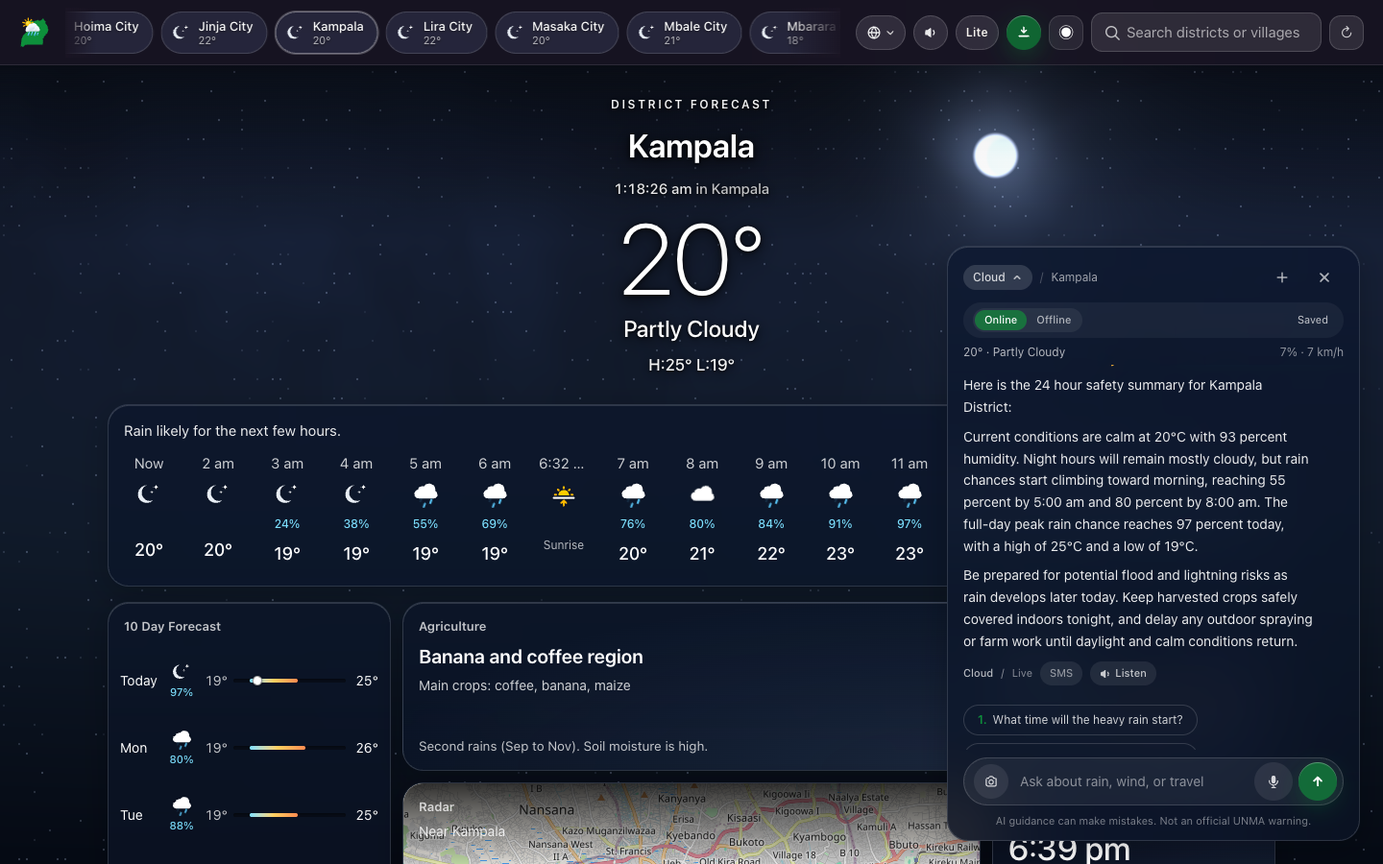
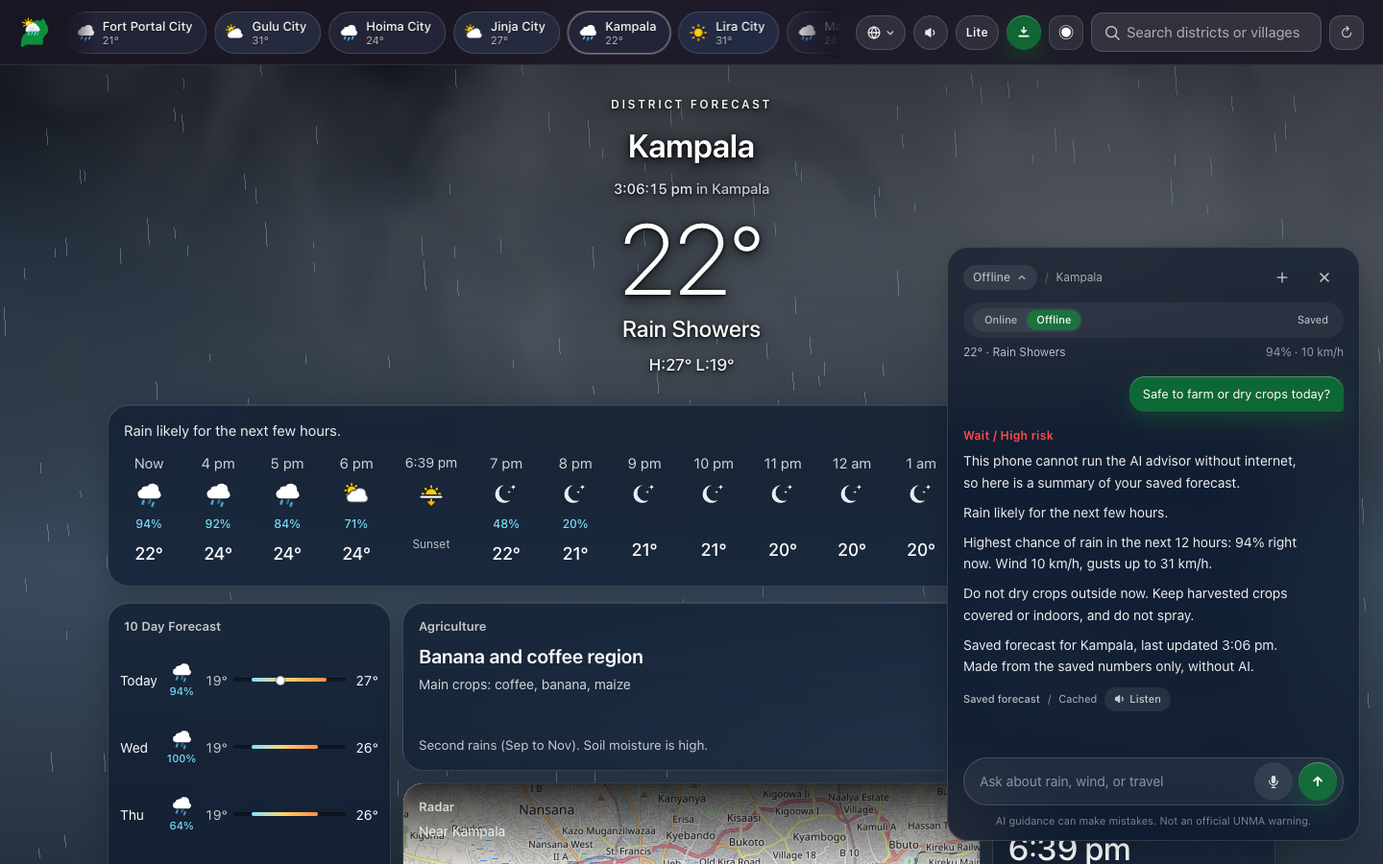
Update docs, API contract, screenshots, and publish the env template
- README: sourced statistics (disability figure corrected to the UBOS 2024
  value), offline answers on every phone, provider order, SMS on phones,
  Web (Chrome) scope, new screenshots, and current test counts.
- CHANGELOG: Security, Added, Changed, and Fixed entries for this work.
- openapi.yaml: per route rate limits, the 429 response, and the 403 note
  for internal POST routes.
- .env.example is now tracked (the setup steps copy it); it holds
  placeholders only. Local tool output folders are ignored.

diff --git a/README.md b/README.md
@@ -28,23 +28,23 @@ This repository is the standalone Hybrid AI edition live at [hybrid.uganda-weath
 
 In Uganda, weather decides whether a family eats, earns a living, or gets home safely.
 
-- **Farming families:** World Bank, FAO, and Uganda Bureau of Statistics (UBOS) data show that about 70% of Uganda's workforce depends on rain-fed farming, and only about 1.3% of farmland has irrigation. Most small farmers dry their maize, beans, and coffee outside in the sun. When sudden rain or heavy dampness hits drying crops, families often lose 5% to 13% of their grain and 12% to 18% of their beans and oilseeds.
-- **Fishers on Uganda's lakes:** On Lake Victoria, sudden night storms and strong winds catch wooden fishing boats far from shore. For years, 3,000 to 5,000 fishers died on the lake each year. When the World Meteorological Organization (WMO) ran its HIGHWAY project and gave lakeside communities simple local warnings, storm deaths dropped by about 30%.
+- **Farming families:** About 68% to 70% of Uganda's working population is in farming ([US Commerce guide citing UBOS](https://www.trade.gov/country-commercial-guides/uganda-agricultural-sector)), and less than 1% of cultivated land is equipped for irrigation ([FAO](https://www.fao.org/fileadmin/user_upload/agwa/docs/NIP-Uganda-Final.pdf)), so almost every harvest depends on the rain. Most small farmers dry maize, beans, and coffee outside in the sun, where a sudden shower can spoil a season's work.
+- **Fishers on Uganda's lakes:** Sudden storms on Lake Victoria catch small wooden boats far from shore. The International Red Cross estimates 3,000 to 5,000 fishers die in storms on the lake each year ([NASA](https://climate.nasa.gov/news/2500/lake-victoria-hazardous-thunderstorm-study-could-improve-climate-forecasts-around-us)); other studies give lower numbers. When the World Meteorological Organization's HIGHWAY project gave lakeside communities simple local warnings, studies estimated weather deaths on the lake fell by about 30%, more than 300 lives a year ([WMO](https://wmo.int/node/13801)).
 - **Mountain and dryland communities:** Around Mount Elgon (Bududa, Manafwa, Sironko, Bulambuli) and the Rwenzori slopes (Kasese, Bundibugyo), Makerere University studies show that heavy rain over a few days soaks steep hillsides and triggers deadly landslides. In Karamoja and the northern drylands, long hot dry spells put cattle, goats, and water points under severe stress.
-- **Literacy, disability, and sun safety:** The **UBOS 2024 National Census** counted **45.9 million** Ugandans (51.4% female, 48.6% male). About **26% of people aged 10 and older cannot read or write**, and **13.2%** (about **5.5 million people** aged 2 and older) live with a disability, including sight loss, hearing loss, and albinism (where strong equatorial UV rays cause severe sunburn and high skin cancer risk).
-- **Phones, data cost, and patchy signal:** Uganda Communications Commission (UCC) reports show about **18 to 19 million smartphones** (roughly 40% of phones), while **basic and feature phones ("kabiriti") still make up over half of all handsets**. **1 GB of mobile data costs around UGX 4,000 to UGX 5,000**, and rural signal drops often. Many people check their phone in town, then lose signal when they reach their garden, landing site, or mountain road.
+- **Literacy, disability, and sun safety:** The 2024 national census counted 45.9 million Ugandans. 74% of people aged 10 and older can read and write, so about one in four cannot, falling to 25% literacy in Karamoja ([UBOS census final report](https://statistics.ubos.org/nphc/reports/National-Population-and-Housing-Census-2024-Final-Report-Volume-1-Main.pdf)). The same report puts disability at 5.7%, a figure disability groups and the government have publicly questioned. People with sight loss, hearing loss, and albinism (where strong equatorial sun causes severe sunburn) need weather information they can hear or see at a glance.
+- **Phones and patchy signal:** Uganda Communications Commission figures for the third quarter of 2025 show feature phones are about 56% of devices, basic phones about 10%, and smartphones only about 34% ([PC Tech Magazine on the UCC report](https://pctechmag.com/2025/12/ucc-report-ugandas-digital-footprint-grows-modestly-in-q3-2025/)). Mobile data is a real cost for families and rural signal drops often: many people check their phone in town, then lose signal at the garden, landing site, or mountain road.
 
 A cloud only app stops helping the moment mobile signal drops, and a text only app leaves out people who cannot read or afford big data bundles. I built **Uganda Weather (Hybrid AI Edition)** to solve all of these real constraints together:
 
-- **Works online and offline:** Load your district forecast once while you have signal, save it on the phone, and ask practical safety questions offline in plain English using on-device Gemini Nano (`0 KB` cloud data), or get live cloud answers in English and Luganda when online.
-- **Built for eyes, ears, and basic phones:** One-tap natural voice briefings in English and Luganda for blind and non-reading users, clear visual Go / Caution / Wait cards for deaf and hard-of-hearing users, `Large text` and `High contrast` display switches, a fast low-data `/lite` mode tested on `240x320` KaiOS feature phones and `320x568` Android Go devices, and one-tap **SMS** and **WhatsApp** plain-text sharing so one smartphone owner can forward the full forecast or safety verdict to family and neighbours on 2G button phones for free.
+- **Works online and offline, on any phone:** Load your district forecast once while you have signal and it is saved on the phone. Offline, every phone gets a plain safety summary built only from the saved forecast numbers (clearly labelled, no AI and no guessing). Devices that have Gemini Nano get full AI answers offline in English. Online, answers come from Gemini in the cloud in English and Luganda.
+- **Built for eyes, ears, and basic phones:** One tap natural voice briefings in English and Luganda for blind and non reading users, clear Go / Caution / Wait labels for deaf and hard of hearing users, `Large text` and `High contrast` switches, a low data `/lite` page checked in automated tests at `240x320` and `320x568` screen sizes, and one tap **SMS** (on phones) and **WhatsApp** plain text sharing so one smartphone owner can forward the forecast to family and neighbours on basic phones.
 
 ## Screenshots
 
 | Online / Offline Switch & Saved Forecast | Bilingual Luganda Guidance | Feature Phone Lite Mode & SMS Share |
 | :---: | :---: | :---: |
-| ![Online and Offline switch with Saved forecast indicator](public/screenshots/hybrid-advisor-offline-toggle.png) | ![Luganda weather view and live Luganda safety reply](public/screenshots/hybrid-advisor-luganda.png) | ![Low data Lite mode with voice reader, SMS sharing, and display controls](public/screenshots/lite-feature-phone.png) |
-| Tap the top left status pill (`Cloud` or `On device`) to switch directly between `Online` and `Offline` mode and confirm your local forecast is saved. | Works naturally in both English and Luganda, including switching languages in the middle of a conversation. | Fast low data `/lite` mode built for basic and feature phones, with one tap voice reading, plain text SMS and WhatsApp sharing, and large text controls. |
+| ![Advisor switched to Offline answering from the saved forecast with a Wait verdict](public/screenshots/hybrid-advisor-offline-toggle.png) | ![Luganda weather view and live Luganda safety reply](public/screenshots/hybrid-advisor-luganda.png) | ![Low data Lite mode with voice reader, SMS sharing, and display controls](public/screenshots/lite-feature-phone.png) |
+| Switch to `Offline` from the status pill. With no internet and no on device model, the advisor still answers from the saved forecast, clearly labelled `Saved forecast`. | Works naturally in both English and Luganda, including switching languages in the middle of a conversation. | Fast low data `/lite` mode built for basic and feature phones, with one tap voice reading, plain text SMS and WhatsApp sharing, and large text controls. |
 
 ## How Hybrid AI works
 
@@ -53,12 +53,15 @@ The advisor uses **Firebase AI Logic**, **Firebase Remote Config**, and **Fireba
 ```mermaid
 flowchart LR
   User["Question by Text, Voice, or Photo"] --> Clean["Privacy Check (Removes Phone Numbers and Photo GPS)"]
-  Weather["Live or Saved Uganda Weather"] --> Clean
+  Weather["Live or Saved Uganda Weather (Open-Meteo, WeatherAPI backup)"] --> Clean
   Clean --> Router{"Internet Available?"}
-  Router -->|"Offline"| PhoneOnly["Runs on Device (0 KB Data)"]
+  Router -->|"Offline"| HasNano{"Gemini Nano on this device?"}
+  HasNano -->|"Yes"| PhoneOnly["Runs on Device (0 KB Data)"]
+  HasNano -->|"No"| Saved["Safety Summary from Saved Forecast (No AI)"]
+  Saved --> Reply
   Router -->|"Online"| PhoneFirst["Tries Device First (Saves Data)"]
   PhoneFirst -->|"Fallback, Photos, or Luganda"| Cloud["Cloud Gemini (via Firebase)"]
-  PhoneOnly --> Reply["Safety Advice, Voice Reader, and SMS Share"]
+  PhoneOnly --> Reply["Safety Advice, Voice Reader, and SMS or WhatsApp Share"]
   PhoneFirst --> Reply
   Cloud --> Reply
 ```
@@ -89,8 +92,8 @@ Before sending a question to the model, `src/lib/ai/advisor-prompt.ts`, `src/lib
 
 - **Privacy built in:** Everyday English questions for one district run on your phone first (using Gemini Nano) so your plans stay private and use `0 KB` of mobile data. Before any question goes to the cloud, the app automatically removes phone numbers, emails, and ID numbers, and strips hidden GPS location data from sky or crop photos on your phone.
 - **Server side prompt templates:** Supports running cloud answers from Firebase Console Server Prompt Templates (`getTemplateGenerativeModel` and `advisor_prompt_template_id` in Remote Config), keeping prompt rules safely on Firebase servers.
-- **Natural voice reader in English and Luganda:** Reads weather briefings and answers aloud in clear English (via Firebase AI Logic audio) and natural Luganda (via Sunbird AI), splitting long text into short sentences and pre loading the start so speech begins fast, with browser speech as the offline backup.
-- **Built for everyone and basic phones:** Low data `/lite` mode tested on `240x320` KaiOS feature phones and `320x568` Android Go phones, `Large text` and `High contrast` display switches, one tap plain text `SMS` and `WhatsApp` forecast sharing for neighbours on 2G basic phones, offline parish and town search caching, and community safety warnings (High UV sun protection including persons with albinism, Karamoja livestock heat and water watch, and 72 hour mountain slope landslide watch).
+- **Natural voice reader in English and Luganda:** Reads weather briefings and answers aloud in clear English (Gemini voice through Firebase AI Logic, with a server voice as backup) and natural Luganda (Sunbird AI). Speech is fetched only when you tap Listen, never on page load, so no data or quota is spent unless you ask. The browser's own voice, preferring its most natural voices, is the last backup.
+- **Built for everyone and basic phones:** Low data `/lite` page checked in automated tests at `240x320` and `320x568` screen sizes, `Large text` and `High contrast` switches, one tap plain text `SMS` (on phones) and `WhatsApp` forecast sharing for neighbours on basic phones, offline parish and town search caching, and community safety warnings (High UV sun protection including persons with albinism, Karamoja livestock heat and water watch, and 72 hour mountain slope landslide watch).
 - **Exact place type and Uganda local time (EAT):** Tells National Parks, Mountains, Airports, Villages, Cities, and Districts apart, and follows Uganda local time so it never tells farmers to dry crops at night.
 - **Live controls and abuse protection:** Firebase Remote Config (`src/lib/ai/remote-config.ts`, `remoteconfig.template.json`) lets us update models, voice settings, prompt templates, or pause the advisor live without redeploying. Firebase App Check (`ReCaptchaEnterpriseProvider`) and input checks block spam and misuse.
 
@@ -103,14 +106,17 @@ That existing app is what makes the Hybrid AI Advisor useful: instead of a chatb
 During the submission period (November 11 to November 30, 2026), I built:
 
 - **The Hybrid AI Advisor and Firebase setup:** Live streaming answers with a stop button, automatic privacy protection (removes phone numbers, emails, ID numbers, and hidden photo GPS before cloud requests), Firebase Remote Config live controls, Firebase App Check bot protection, server side prompt templates, and built in English neural voice (`src/lib/ai/`).
-- **Hands free Voice Reader, Live Camera, and Feature Phone Lite Mode:** Tap once to listen to any screen or detail card in clear English or natural Luganda, talk hands free (say `one`, `two`, `emu`, `bbiri`, `stop`, or `lekera awo`, and interrupt cleanly by speaking), take a live sky or crop photo or upload from gallery (checking that the photo is recent and from Uganda), and use the fast, low data `/lite` page built for `240x320` KaiOS feature phones and `320x568` Android Go phones.
-- **Everyday inclusion, safety, and polish:** Cleaner cards and readable text over bright skies, `Large text` and `High contrast` switches that do not resize cards, one tap `SMS` and `WhatsApp` plain text forecast sharing for neighbours on 2G basic phones, offline search across all 152 districts plus cached parishes and major Ugandan towns, community safety warnings (High UV sun protection including persons with albinism, Karamoja livestock heat and water watch, and 72 hour mountain slope landslide watch), and 596 automated unit tests across 108 files plus 9 feature phone and mobile tests.
+- **Hands free Voice Reader, Live Camera, and Feature Phone Lite Mode:** Tap once to listen to any screen or detail card in clear English or natural Luganda, talk hands free (say `one`, `two`, `emu`, `bbiri`, `stop`, or `lekera awo`, and interrupt cleanly by speaking), take a live sky or crop photo or upload from gallery (checking that the photo is recent and from Uganda), and use the low data `/lite` page, checked in automated tests at `240x320` and `320x568` screen sizes.
+- **Offline answers for every phone, voice reliability, and security:** When there is no internet and no on-device model, the advisor now answers from the saved forecast instead of showing an error (`src/lib/ai/offline-briefing.ts`). Natural voice is only fetched when you tap Listen and has a server backup before the browser voice. Paid voice routes refuse requests from other websites, and server secrets are compared in constant time. Text messages use only basic SMS characters so a forecast fits one paid SMS, the SMS button shows only on phones and tablets, every layout was checked from `240x320` feature phone screens to desktop, and request limits are counted per route so many people sharing one mobile network address are not blocked together.
+- **Everyday inclusion, safety, and polish:** Cleaner cards and readable text over bright skies, `Large text` and `High contrast` switches that do not resize cards, one tap `SMS` and `WhatsApp` plain text forecast sharing for neighbours on 2G basic phones, offline search across all 152 districts plus cached parishes and major Ugandan towns, community safety warnings (High UV sun protection including persons with albinism, Karamoja livestock heat and water watch, and 72 hour mountain slope landslide watch), and 645 automated unit tests across 116 files plus 23 browser tests (including feature phone and small phone screen sizes).
 
 ## Testing On-Device Mode in Chrome
 
 1. Open Chrome on a desktop machine with at least 22 GB of free disk space and enable `chrome://flags/#prompt-api-for-gemini-nano` (restart Chrome if prompted).
 2. Visit `chrome://on-device-internals` to verify Gemini Nano is downloaded and ready.
 3. Open [https://hybrid.uganda-weather.com](https://hybrid.uganda-weather.com) (or `http://localhost:3000`), open the green chat button, tap the status pill (`Cloud` or `On device`), and switch to **`Offline`** (or turn on Offline in Chrome DevTools) to run `InferenceMode.ONLY_ON_DEVICE` against your locally saved district forecast.
+
+Without Gemini Nano (any phone, or Chrome without the flag), switching to **`Offline`** still works: the advisor answers with a safety summary built from the saved forecast, labelled `Saved forecast`. This is what most people in rural Uganda will see on entry level Android phones.
 
 ## Running locally
 
@@ -125,7 +131,8 @@ Add your Firebase Web keys to `.env.local`:
 - `NEXT_PUBLIC_FIREBASE_PROJECT_ID`
 - `NEXT_PUBLIC_FIREBASE_APP_ID`
 - Optional: `NEXT_PUBLIC_FIREBASE_RECAPTCHA_ENTERPRISE_SITE_KEY` or `NEXT_PUBLIC_FIREBASE_APPCHECK_DEBUG_TOKEN=true` for App Check, and `NEXT_PUBLIC_FIREBASE_AI_MODEL` for the default cloud model.
-- Optional: `WEATHERAPI_KEY` for primary weather data (without it, the app uses Open-Meteo, which needs no key).
+- Optional: `WEATHERAPI_KEY` for WeatherAPI.com forecasts. Without it the app uses Open-Meteo, which needs no key.
+- Optional: `WEATHER_PRIMARY_PROVIDER=open-meteo` to ask Open-Meteo first and keep WeatherAPI as the backup (the live hybrid site uses this). The default asks WeatherAPI first.
 
 Start the app:
 
@@ -146,8 +153,8 @@ pnpm lint && pnpm typecheck && pnpm test && pnpm build && pnpm guards
 - **Frontend:** Next.js 15, React 19, TypeScript, Tailwind CSS 4, TanStack Query, Zustand, Framer Motion
 - **Hybrid AI:** Firebase AI Logic (`firebase/ai`), Firebase Remote Config (`firebase/remote-config`), Firebase App Check (`firebase/app-check`)
 - **Backend and caching:** Next.js API routes with Upstash Redis (in memory fallback in development)
-- **Weather and place data:** WeatherAPI.com, Open-Meteo, Pirate Weather, OpenWeatherMap (air quality), Visual Crossing (historical averages), NOAA Aviation Weather Center (airport METAR), OpenData Uganda v1 (villages and towns), RainViewer (radar), MapTiler and Stadia Maps
-- **Mobile shells:** Capacitor 7 for Android and iOS with six home screen widgets
+- **Weather and place data:** Open-Meteo and WeatherAPI.com (either can be first, the other is the backup), Pirate Weather (third backup), OpenWeatherMap (air quality), Visual Crossing (historical averages), NOAA Aviation Weather Center (airport METAR), OpenData Uganda v1 (villages and towns), RainViewer (radar), MapTiler and Stadia Maps
+- **Mobile shells:** Capacitor 7 for Android and iOS with six home screen widgets. The shells load the hosted web app, so the Hybrid AI Advisor described here is the web (Chrome) build.
 - **API contract:** [`openapi.yaml`](./openapi.yaml)
 
 ## Native mobile builds

diff --git a/CHANGELOG.md b/CHANGELOG.md
@@ -6,17 +6,28 @@ The format follows [Keep a Changelog](https://keepachangelog.com/en/1.1.0/), and
 
 ## [Unreleased]
 
-### Fixed
+### Security
 
-- Mobile Voice Reader playback reliability on iOS and Android browsers (`src/lib/ai/advisor-voice.ts`, `src/components/settings/WeatherListenButton.tsx`, `src/components/settings/LiteListenButton.tsx`): primed the shared inline audio element unmuted inside the user tap gesture, removed src teardown between chunks, retained and chunked mobile browser speech utterances without idle cancel races, and prevented background header instances from cancelling active playback on capability hydration.
+- Paid voice routes and data writing routes (`/api/v1/voice/speak`, `/voice/translate`, `/voice/transcribe`, `/feedback/luganda`, `/observability/advisor-error`, `/push/register`) refuse requests that the browser marks as coming from another website (`rejectCrossSiteRequest` in `src/lib/api/route-utils.ts`), so other sites cannot spend this app's voice and AI quota.
+- The speak route only sends English to the Luganda voice service when `VOICE_ENGLISH_CLOUD_ENABLED=true`, closing a path that let anyone use that paid key for English.
+- Cron and push dispatch secrets are compared in constant time (`src/lib/api/bearer-secret.ts`).
+- National ID redaction before cloud calls now also catches lowercase ID numbers.
+- Android widget data now arrives through the `WidgetData` Capacitor plugin, which Capacitor only accepts from the main page of the app's allowed sites. The old `WidgetBridge` JavaScript interface, which also accepted calls from embedded frames, is removed from the app. The website still calls it as a fallback for app builds already installed on phones.
+- Added a CodeQL workflow that scans the web app and the Android source on pushes, pull requests, and weekly.
+- Added automatic dependency updates (`.github/dependabot.yml`) for the web packages (daily), Android build tooling, and workflow actions (weekly), all aimed at `dev`.
 
 ### Added
 
+- Offline answers on every phone: when there is no internet and no on-device model, or Luganda is asked offline, the Weather Advisor answers with a safety summary built only from the saved forecast, clearly labelled `Saved forecast` / `Obudde obuterekeddwa` (`src/lib/ai/offline-briefing.ts`).
+- `WEATHER_PRIMARY_PROVIDER` setting (`weatherapi` by default, or `open-meteo`) to choose which forecast provider is asked first; the other becomes the backup, then Pirate Weather (`src/lib/weather/provider.ts`).
+- `API_RATE_LIMIT_PER_MINUTE` setting for the per route, per address request limit.
+- The floating advisor button steps aside while people scroll down to read and returns when they scroll up (`src/hooks/useHideOnScrollDown.ts`).
+- Browser tests for SMS sharing on phones and computers (`e2e/share-sms.spec.ts`) and unit tests for the offline summary, voice routing, rate limits, scene capability, and the speak route.
 - Accessibility display controls (`AccessibilityControls.tsx` in `src/components/settings/`) adding persistent `Large text` and `High contrast` toggles across the home settings tile, search page, and `/lite` without resizing cards or shifting brand colours.
 - Community safety advisories (`src/lib/weather/community-safety.ts`) derived from existing forecast data: daytime High UV sun protection (covering outdoor workers, children, and persons with albinism), Karamoja and cattle corridor pastoralist livestock heat and water watch, and a 72 hour mountain slope landslide watch across mountain and landslide hazard districts.
 - Plain text SMS and WhatsApp forecast sharing (`src/lib/places/sms-share.ts` and `src/components/settings/VillageShareBar.tsx`) on `/lite` and completed Advisor replies so smartphone and feature phone users can forward daily forecasts and safety verdicts to neighbours on 2G basic phones with zero paid messaging APIs.
 - Offline parish and village search cache plus a bundled directory of major Ugandan towns and trading centres (`src/lib/places/offline-place-cache.ts`) wired into both top bar and search page autocomplete.
-- Pipelined sentence chunked neural voice playback with eager background pre warming (`src/lib/voice/narrator.ts`, `src/lib/ai/advisor-voice.ts`, `src/lib/voice/sunbird.ts`) reducing spoken playback startup latency while preventing overlapping voices and enforcing standard Luganda orthography (`Empandiika y'Oluganda Entongole`).
+- Pipelined sentence chunked neural voice playback (`src/lib/voice/narrator.ts`, `src/lib/ai/advisor-voice.ts`, `src/lib/voice/sunbird.ts`) reducing spoken playback startup latency while preventing overlapping voices and enforcing standard Luganda orthography (`Empandiika y'Oluganda Entongole`).
 - Privacy Shield for the Hybrid Weather Advisor (`redactPiiForCloud` in `src/lib/ai/advisor-guard.ts` and verified canvas EXIF APP1 stripping in `src/lib/ai/advisor-image.ts`) that redacts accidental phone numbers, emails, and national IDs before cloud calls and strips GPS/camera metadata from photos on device.
 - Native client side Firebase AI Logic Neural TTS (`src/lib/ai/firebase-tts.ts` using `gemini-3.1-flash-tts-preview` and `ResponseModality.AUDIO`), Firebase AI Logic Server Prompt Templates (`src/lib/ai/template-advisor.ts` via `getTemplateGenerativeModel`), and native `Schema.object` structured output definitions (`ADVISOR_STRUCTURED_OUTPUT_SCHEMA` in `src/lib/ai/advisor-tools.ts`), all dynamically controlled through Firebase Remote Config (`remoteconfig.template.json`).
 - Hands free Voice Companion Mode (`voiceMode` in `src/stores/preferencesStore.ts`) and Universal Page and Sheet Narrator (`src/lib/voice/narrator.ts`) delivering natural spoken briefings in English and standard Luganda across the home screen, Lite mode (`src/components/settings/LiteListenButton.tsx`), all detail sheets (`src/components/sheet/DetailSheet.tsx`), and automatic spoken replies in the Weather Safety Advisor.
@@ -30,7 +41,6 @@ The format follows [Keep a Changelog](https://keepachangelog.com/en/1.1.0/), and
 - Custom glass 404 Not Found page (`src/app/not-found.tsx` and `src/components/layout/NotFoundView.tsx`) localized in both English and Luganda with live atmospheric weather backdrop, brand mark, direct home and search actions, and quick links to major Ugandan cities and districts.
 - Luganda beta notice banner and modern glass issue reporting form (`POST /api/v1/feedback/luganda`) allowing users in Luganda mode to report translation, grammar, or layout issues directly to the language review inbox without exposing internal email addresses in client code.
 - Comprehensive Luganda language support with reactive English to Luganda switching across desktop and mobile interfaces, dark mode glass switcher control, centralized typed translation dictionary, and authentic meteorological phrasing calibrated against standard Luganda orthography (Empandiika y Oluganda Entongole).
-
 - Dedicated Android notification channel (`weather_alerts`) for severe weather alerts with high importance, vibration, amber notification tint, and a monochrome status bar storm icon (`ic_stat_weather_alert`).
 - Android home screen widget suite expanded to six native widgets: Forecast, Details, 5 Day Forecast, Air Quality, Agriculture, and Sunrise and Sunset, with dedicated titles, concise subtitles, and dynamic layout previews (`previewLayout`) displaying real glass cards, metrics, and icons in the widget picker.
 - Continuous horizontal marquee ticker for severe weather alerts in the Android Forecast widget with amber badge and smooth scrolling text.
@@ -49,7 +59,6 @@ The format follows [Keep a Changelog](https://keepachangelog.com/en/1.1.0/), and
 - Transparent application icons across web and desktop touch marks ensuring the Uganda silhouette and weather emblem render without artificial dark background tiles in desktop docks and home screens.
 - Home screen widget suite matching modern glanceable layouts across small, medium, and large families with horizontal hourly forecasts, five day outlook range bars, and specialized Agriculture and Air Quality widgets.
 - Card free download action in the application footer with vector icons and solid brand green navigation buttons that automatically reappear if the application is uninstalled.
-
 - Wind compass dial with a fine degree bezel, cardinal letters, a marker pinned to the exact bearing, and a center readout of the degree and compass point. The wind detail sheet shows a large dial with numerals every 30 degrees.
 - The cookie banner no longer appears inside the native mobile apps.
 - The mobile header now respects the top safe area so it never sits under the system status bar.
@@ -81,19 +90,24 @@ The format follows [Keep a Changelog](https://keepachangelog.com/en/1.1.0/), and
 
 ### Changed
 
+- Natural voice order for English: the Firebase AI Logic Gemini voice first, then the server voice, then the browser voice, which now prefers Chrome's more natural "Google" voices. The server speak route tries Gemini before Sunbird for English.
+- Spoken audio is fetched only when someone taps or focuses Listen, never on page load, so no quota or mobile data is spent unless asked.
+- Rate limits now count per route and per address with a default of 240 requests a minute, so many people sharing one mobile network address are not blocked together; expired entries are cleared from memory.
+- Phones with 2 GB of memory get the still weather scene instead of the animation, saving battery on entry level Android phones.
+- SMS sharing is offered only on touch devices; on computers the browser would stop to ask before opening Messages. WhatsApp and Copy stay everywhere.
+- The privacy page explains where advisor questions, photos, and voice recordings go (Google Gemini through Firebase, Sunbird AI, reCAPTCHA) and how long spoken audio is kept.
+- README statistics now link to their sources; the disability figure is corrected to the UBOS 2024 census value.
 - Android now compiles and targets SDK 36 (Android 16), which the store requires for new apps and updates, using Android Gradle Plugin 8.13.0. Android builds need a Java 21 JDK.
 - iOS `Info.plist` declares `ITSAppUsesNonExemptEncryption = NO` and requires `arm64` devices instead of the old `armv7` value.
 - iOS widget names and descriptions use plain wording ("Sunrise and Sunset", "Air Quality", "Current weather, the next few hours, and the next 5 days") and no longer claim features the widgets do not have.
 - New `Native apps` workflow builds the Android app with its unit tests and the iOS app with its widget on every push and pull request.
 - New `pnpm check:native-version` guard, part of `pnpm guards`, fails when the Xcode project version does not match `package.json` or the app and widget build numbers differ.
 - Added the mobile release runbook (`docs/24-mobile-release-runbook.md`) and Java 21 setup notes.
-
 - Unified the weather alert card with standard glass tiles, replacing custom advisory headers with standard Warning, Caution, or Alert titles and removing external API provider declarations.
 - Restructured Android Forecast and Daily Forecast home screen widgets into a balanced two column glass layout with current conditions on the left and a five day forecast with horizontal temperature range bars on the right, eliminating unused vertical space and adhering strictly to the dark glass surface system. Replaced solid amber widget alert badge with frosted dark glass and white text, and eliminated all yellow and gold gradients from range bars and atmospheric backgrounds.
 - Display official brand logo at the top of README and synchronize all developer documentation with the shipped architecture.
 - Removed the text wordmark from desktop top bar and mobile header across apps and website, keeping the clean weather emblem glyph linked to the home view.
 - Redesigned offline fallback screen with full country map background, high contrast weather emblem, and retry button matching the launch visual style.
-
 - Prevented the hourly forecast strip from duplicating the current hour right after Now when crossing an hour boundary or when provider timestamps lag behind wall clock time, aligned Now precipitation probability to the current hour rather than midnight or daily totals, guaranteed sunrise and sunset markers in the hourly strip from astronomy data, and replaced gusts and main driver phrasing with plain everyday English.
 - Added strong downward pull and overscroll dismissal directly inside open detail cards so pulling down firmly within the card body closes it without needing to tap outside or press the close button, fixed WeatherAPI 12 hour sunrise and sunset timestamp parsing so sunrise and sunset markers always appear in the hourly strip, fixed late evening hour graph slicing in the conditions sheet, replaced bimodal and unimodal labels with plain seasonal wording, and removed the pulsing map pin ring.
 - Simplified agriculture and district copy to use natural everyday words (gardens, region, planting time, dry weather, and clear sentence case), removed the redundant shoreline subtitle from lake views, and improved mobile subtitle contrast and phrasing across home tiles.
@@ -125,6 +139,13 @@ The format follows [Keep a Changelog](https://keepachangelog.com/en/1.1.0/), and
 - Added test report output artifacts to lint ignore patterns.
 
 ### Fixed
+
+- SMS messages use only basic SMS characters (`24C`, Luganda `ŋ` written as `ng'`), so one forecast fits one paid SMS; advisor replies are limited to two SMS parts ending on a full sentence, without in app notes. The SMS link format now also fills in the message on iPhone.
+- Small screens: the `/lite` header wraps instead of clipping, the rain, wind, and humidity tiles and the next days list no longer cut words short, share buttons stack and meet the 44 px touch size, the compact home header keeps the place name readable, sunrise and sunset times are no longer cut, and long district names fit in the desktop chip row.
+- The header place pill now reads its place name to screen readers.
+- Removed the footer emoji and third party coffee link; Google Analytics no longer falls back to a hard coded ID.
+- Luganda spelling: "Weereza" on the `/lite` sharing card.
+- Mobile Voice Reader playback reliability on iOS and Android browsers (`src/lib/ai/advisor-voice.ts`, `src/components/settings/WeatherListenButton.tsx`, `src/components/settings/LiteListenButton.tsx`): primed the shared inline audio element unmuted inside the user tap gesture, removed src teardown between chunks, retained and chunked mobile browser speech utterances without idle cancel races, and prevented background header instances from cancelling active playback on capability hydration.
 - Home screen widgets on iOS and Android no longer show made up weather when a reading is missing. Stand in values such as wind "6 km/h", humidity "65%", UV "3 Mod", "AQI Good", sunrise "6:42 AM", sunset "6:51 PM", a fixed lake wave height, a fixed "12h 09m" daylight length, and "Bimodal Rainy Season" are replaced with `--` or "not available". Missing temperatures no longer show as "0°".
 - Android widgets other than Forecast kept the layout's sample values ("Kampala", "22°", "Tue 19° 28°") when no data was saved or the data could not be read. Every widget now sets every field on every update, and forecast rows with no data are hidden.
 - Android widgets printed the word "null" for missing text values, because Android's JSON reader returns "null" for JSON null. A shared `optionalString` helper now treats null, missing, and blank values as missing.
@@ -161,7 +182,6 @@ The format follows [Keep a Changelog](https://keepachangelog.com/en/1.1.0/), and
 - Prevented push alert settings from reporting success when device registration or server token removal fails, and bounded native registration waits so users can retry.
 - Kept native weather widgets in an unavailable state when source values are missing or invalid instead of displaying guessed weather, and invalidated cached values from the previous widget schema.
 - Retried APNs push delivery through the sandbox endpoint when a development device token is rejected by the production endpoint.
-
 - Restored mobile top bar header with district pill button and refresh trigger, removing empty chip skeletons on mobile screens.
 - Removed screen blending mode on radar overlays so real precipitation echoes render clearly over OpenStreetMap base tiles.
 - Added live precipitation status to the expanded radar view and extended regional zoom range to level 6.
@@ -179,12 +199,6 @@ The format follows [Keep a Changelog](https://keepachangelog.com/en/1.1.0/), and
 - Added automated RSA service account token minting and in memory caching for FCM HTTP v1 push alert delivery.
 - Replaced developer error copy in home screen with user friendly network guidance.
 - Added modern FCM HTTP v1 dispatch support with safe exception handling for push notification delivery.
-
-### Security
-
-- Android widget data now arrives through the `WidgetData` Capacitor plugin, which Capacitor only accepts from the main page of the app's allowed sites. The old `WidgetBridge` JavaScript interface, which also accepted calls from embedded frames, is removed from the app. The website still calls it as a fallback for app builds already installed on phones.
-- Added a CodeQL workflow that scans the web app and the Android source on pushes, pull requests, and weekly.
-- Added automatic dependency updates (`.github/dependabot.yml`) for the web packages (daily), Android build tooling, and workflow actions (weekly), all aimed at `dev`.
 
 ## [1.1.0] - 2026-09-05
 
